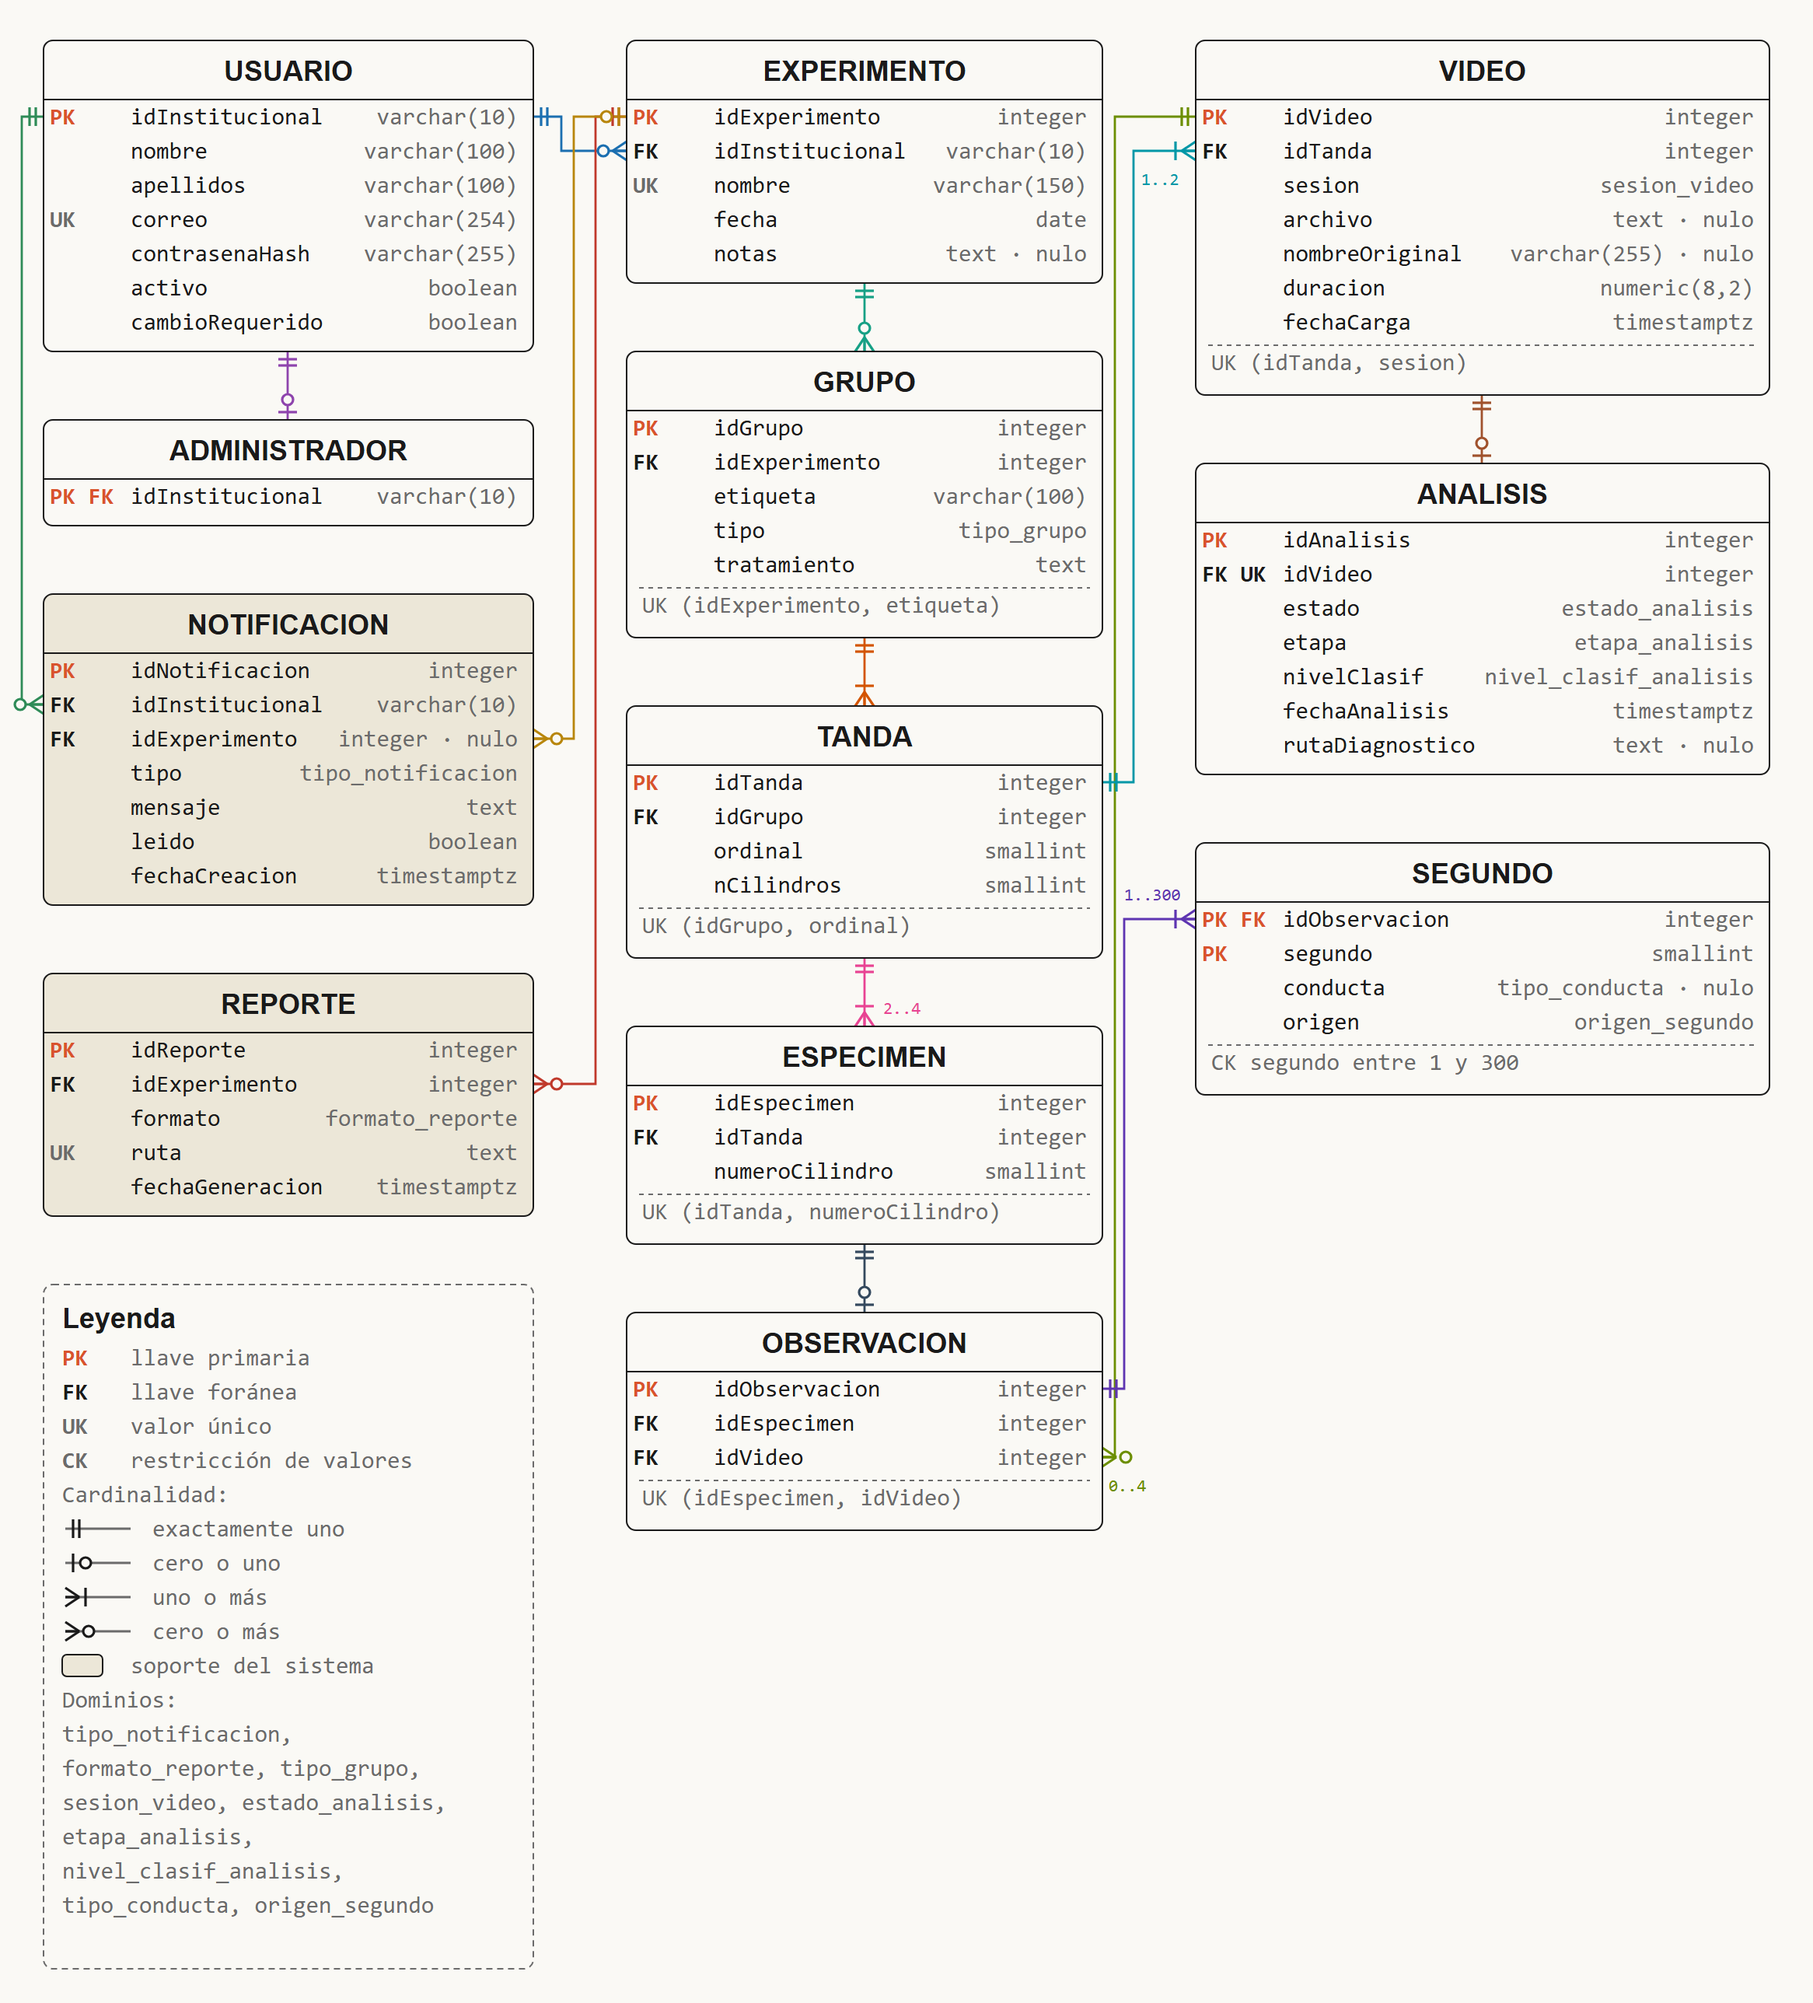
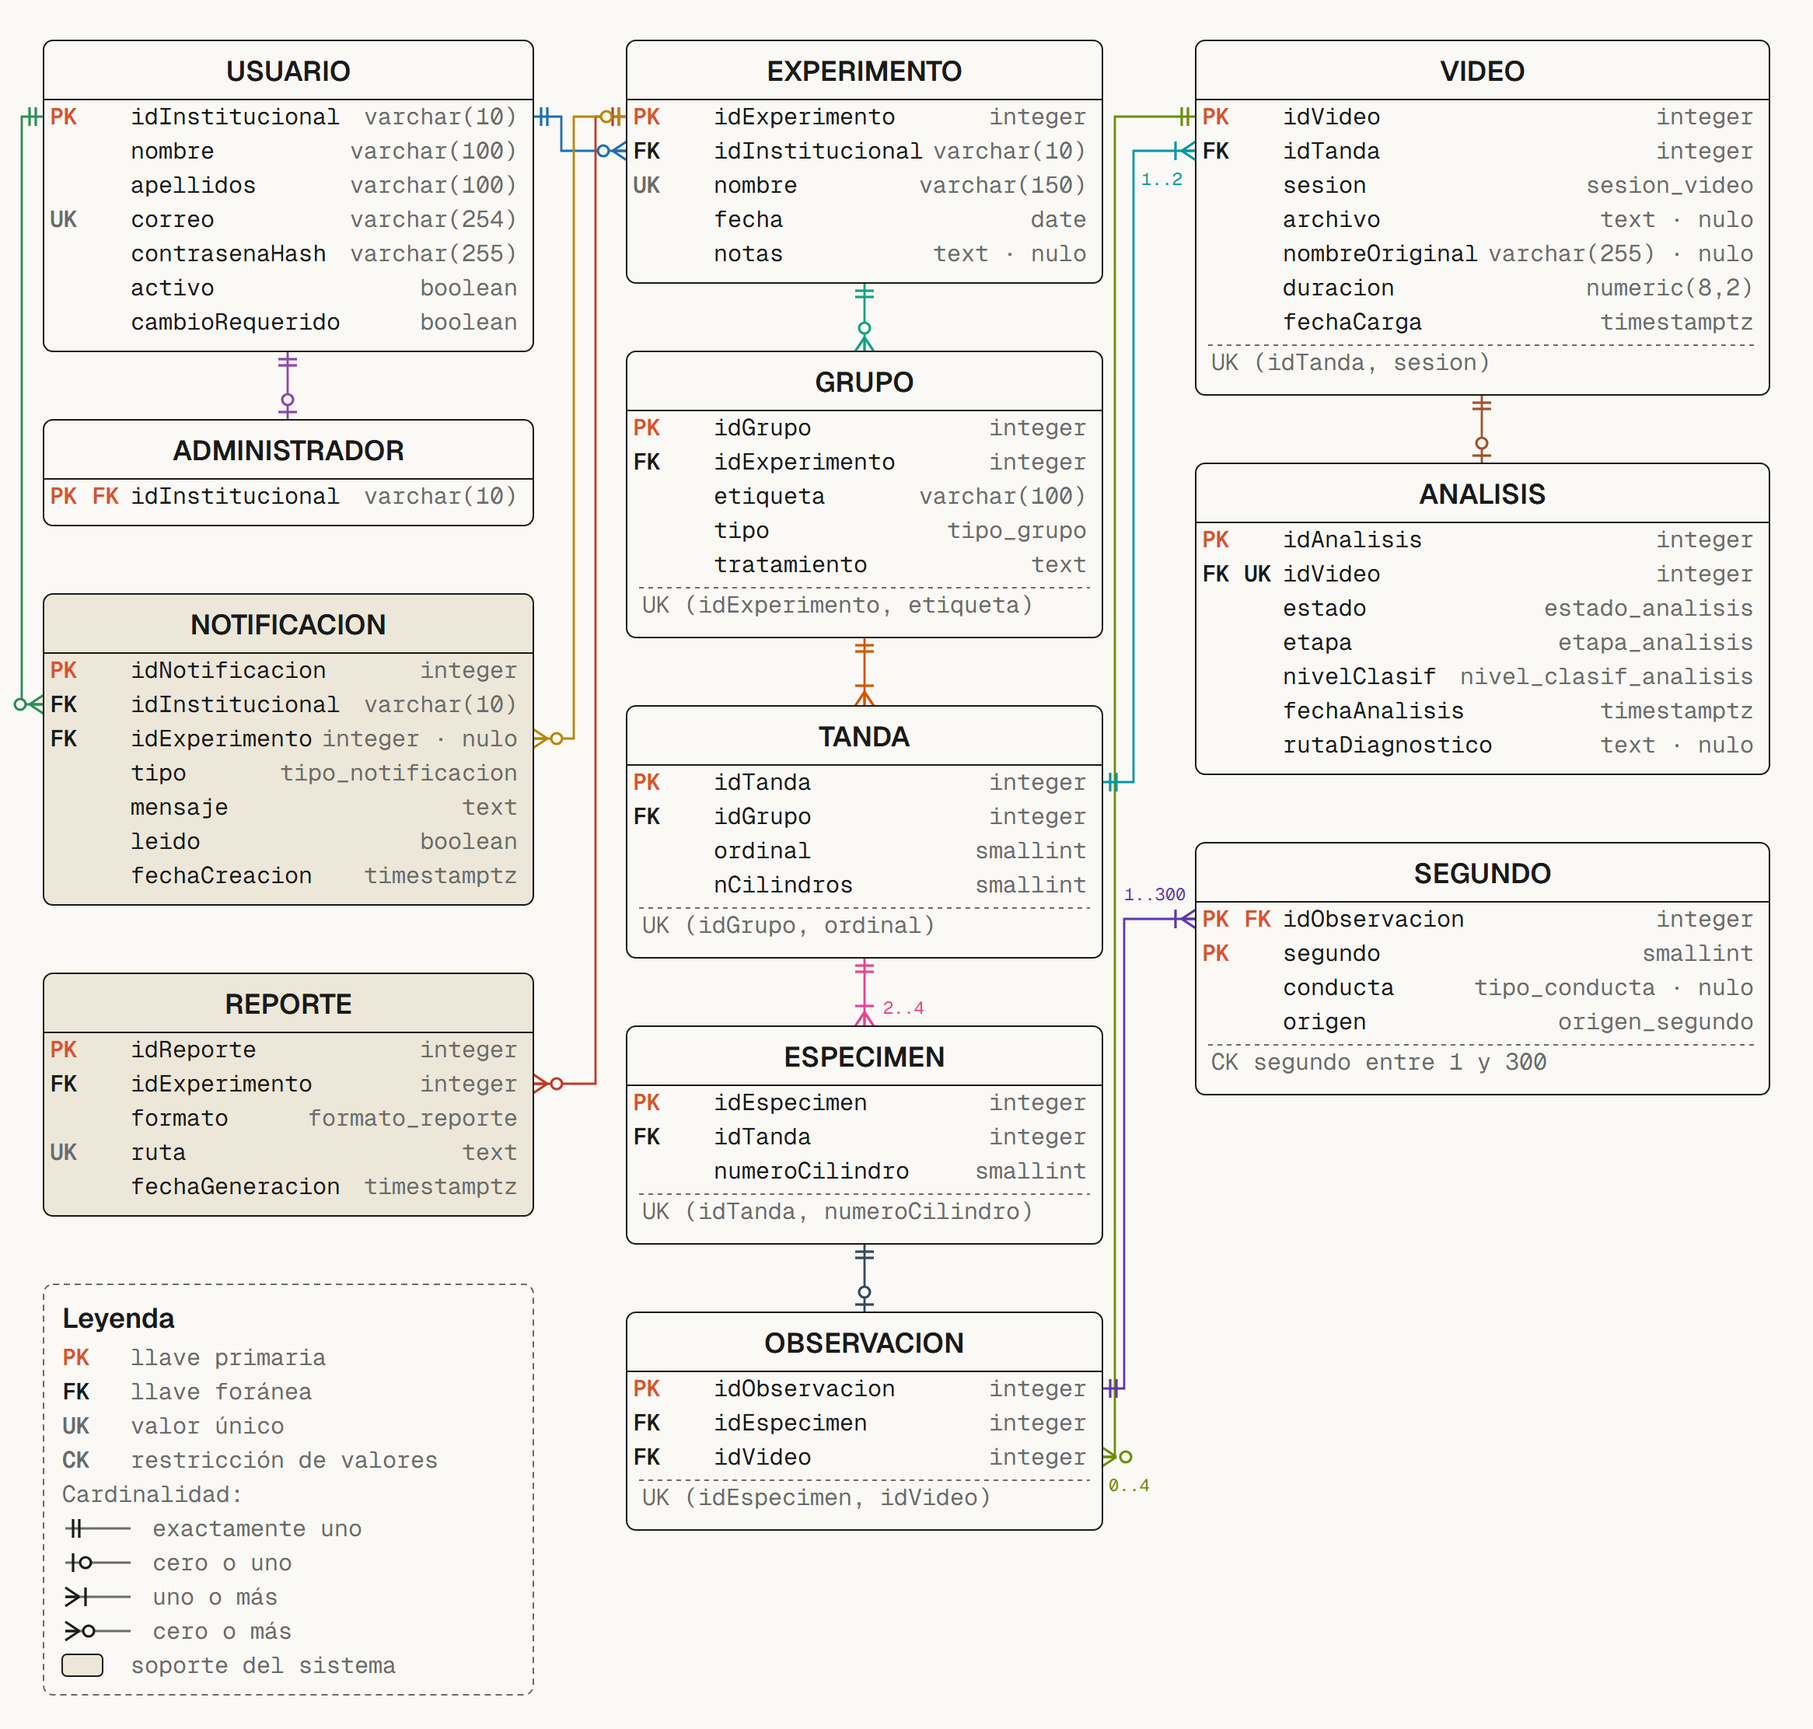
Esquema fisico a hoja completa y sin dominios en la leyenda
La figura del esquema fisico (cap. 5) ocupa toda la hoja: se sale de los
margenes laterales y deja 1 cm por lado (19.6 x 18.7 cm), en una sola pagina.
La leyenda ya no lista los dominios; conserva PK, FK, UK, CK, la
cardinalidad y el soporte del sistema. El resto del diagrama no cambia.

diff --git a/diagramas/diagram_design/esquema_bd.html b/diagramas/diagram_design/esquema_bd.html
@@ -2,8 +2,8 @@
 <html lang="es"><head><meta charset="utf-8"><meta name="viewport" content="width=device-width, initial-scale=1">
 <title>Esquema de la base de datos</title>
 <link href="https://fonts.googleapis.com/css2?family=Geist:wght@400;600&family=Geist+Mono:wght@400;600&display=swap" rel="stylesheet">
-<style>html,body{margin:0;background:#faf9f5}svg{display:block;width:1166px;height:1288px}</style>
-</head><body><svg viewBox="0 0 1166 1288" role="img" aria-labelledby="es-title es-desc" xmlns="http://www.w3.org/2000/svg">
+<style>html,body{margin:0;background:#faf9f5}svg{display:block;width:1166px;height:1112px}</style>
+</head><body><svg viewBox="0 0 1166 1112" role="img" aria-labelledby="es-title es-desc" xmlns="http://www.w3.org/2000/svg">
 <title id="es-title">Esquema físico de la base de datos</title>
 <desc id="es-desc">Las 12 tablas de la base de datos PostgreSQL con sus columnas, tipos, llaves, restricciones y las 13 llaves foráneas con su cardinalidad en notación de pata de gallo.</desc>
 <style>.a{font:400 15px 'Geist Mono',monospace;fill:#1a1a1a}.ty{font:400 15px 'Geist Mono',monospace;fill:#6b6b6b}.b{font:600 15px 'Geist Mono',monospace}.rl{font:400 11px 'Geist Mono',monospace}.nm{font:600 18px Geist,sans-serif;fill:#1a1a1a}</style>
@@ -245,7 +245,7 @@
 <text x="1128" y="662" text-anchor="end" class="ty">origen_segundo</text>
 <line x1="777" y1="672" x2="1130" y2="672" stroke="#6b6b6b" stroke-dasharray="3,3"/>
 <text x="779" y="688" class="ty">CK segundo entre 1 y 300</text>
-<rect x="28" y="826" width="315" height="440" rx="6" fill="#faf9f5" stroke="#6b6b6b" stroke-dasharray="4,3"/>
+<rect x="28" y="826" width="315" height="264" rx="6" fill="#faf9f5" stroke="#6b6b6b" stroke-dasharray="4,3"/>
 <text x="40" y="854" class="nm">Leyenda</text>
 <text x="40" y="878" class="b" fill="#d9532c">PK</text>
 <text x="84" y="878" class="ty">llave primaria</text>
@@ -270,11 +270,4 @@
 <text x="98" y="1054" class="ty">cero o más</text>
 <rect x="40" y="1064" width="26" height="14" rx="3" fill="#ece7d8" stroke="#1a1a1a"/>
 <text x="84" y="1076" class="ty">soporte del sistema</text>
-<text x="40" y="1098" class="ty">Dominios:</text>
-<text x="40" y="1120" class="ty">tipo_notificacion,</text>
-<text x="40" y="1142" class="ty">formato_reporte, tipo_grupo,</text>
-<text x="40" y="1164" class="ty">sesion_video, estado_analisis,</text>
-<text x="40" y="1186" class="ty">etapa_analisis,</text>
-<text x="40" y="1208" class="ty">nivel_clasif_analisis,</text>
-<text x="40" y="1230" class="ty">tipo_conducta, origen_segundo</text>
 </svg></body></html>

diff --git a/diagramas/diagram_design/generadores/gen_esquema.py b/diagramas/diagram_design/generadores/gen_esquema.py
@@ -252,10 +252,7 @@ def legend(x, y, w):
     simbolos = [('one', 'exactamente uno'), ('zo', 'cero o uno'), ('om', 'uno o más'), ('zm', 'cero o más')]
     texto = [('PK', '#d9532c', 'llave primaria'), ('FK', '#1a1a1a', 'llave foránea'),
              ('UK', '#6b6b6b', 'valor único'), ('CK', '#6b6b6b', 'restricción de valores')]
-    dominios = ['Dominios:', 'tipo_notificacion,', 'formato_reporte, tipo_grupo,',
-                'sesion_video, estado_analisis,', 'etapa_analisis,', 'nivel_clasif_analisis,',
-                'tipo_conducta, origen_segundo']
-    h = 52 + (len(texto) + len(simbolos) + 2) * LH + len(dominios) * LH + 14
+    h = 52 + (len(texto) + len(simbolos) + 1) * LH + 14
     out.append(f'<rect x="{x}" y="{y}" width="{w}" height="{h}" rx="6" fill="#faf9f5" stroke="#6b6b6b" stroke-dasharray="4,3"/>')
     out.append(f'<text x="{x+12}" y="{y+28}" class="nm">Leyenda</text>')
     by = y + 52
@@ -274,9 +271,6 @@ def legend(x, y, w):
     out.append(f'<rect x="{x+12}" y="{by-12}" width="26" height="14" rx="3" fill="#ece7d8" stroke="#1a1a1a"/>')
     out.append(f'<text x="{x+56}" y="{by}" class="ty">soporte del sistema</text>')
     by += LH
-    for v in dominios:
-        out.append(f'<text x="{x+12}" y="{by}" class="ty">{esc(v)}</text>')
-        by += LH
     return y + h
 
 lg_bottom = legend(colx[0], colbot[0] + GAPV, colw[0])

diff --git a/chapters/05_diseno.tex b/chapters/05_diseno.tex
@@ -396,7 +396,8 @@ Figura~\ref{fig:er} muestra el resultado.
 
 \begin{figure}[p]
 \centering
-\includegraphics[width=\textwidth, height=0.92\textheight, keepaspectratio]{figures/diagramas/esquema_bd}
+% Ocupa toda la hoja: se sale de los márgenes laterales (queda 1 cm por lado).
+\makebox[\textwidth][c]{\includegraphics[width=\dimexpr\paperwidth-2cm\relax, height=0.95\textheight, keepaspectratio]{figures/diagramas/esquema_bd}}
 \caption{Esquema físico de la base de datos [autoría propia].}
 \label{fig:er}
 \end{figure}
